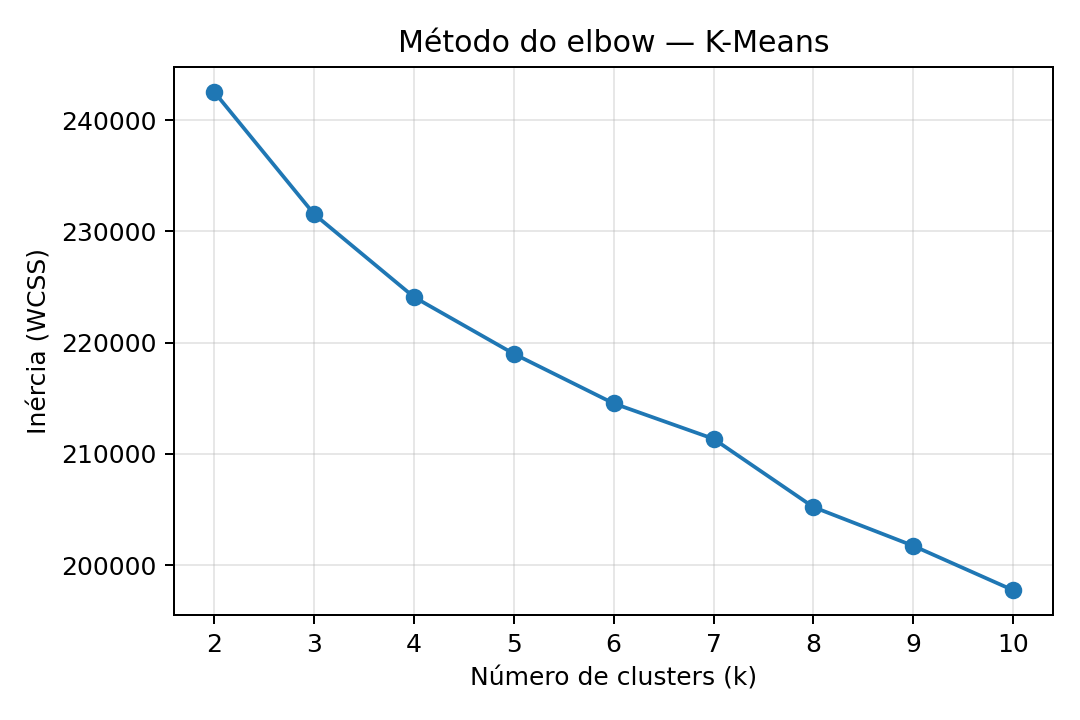
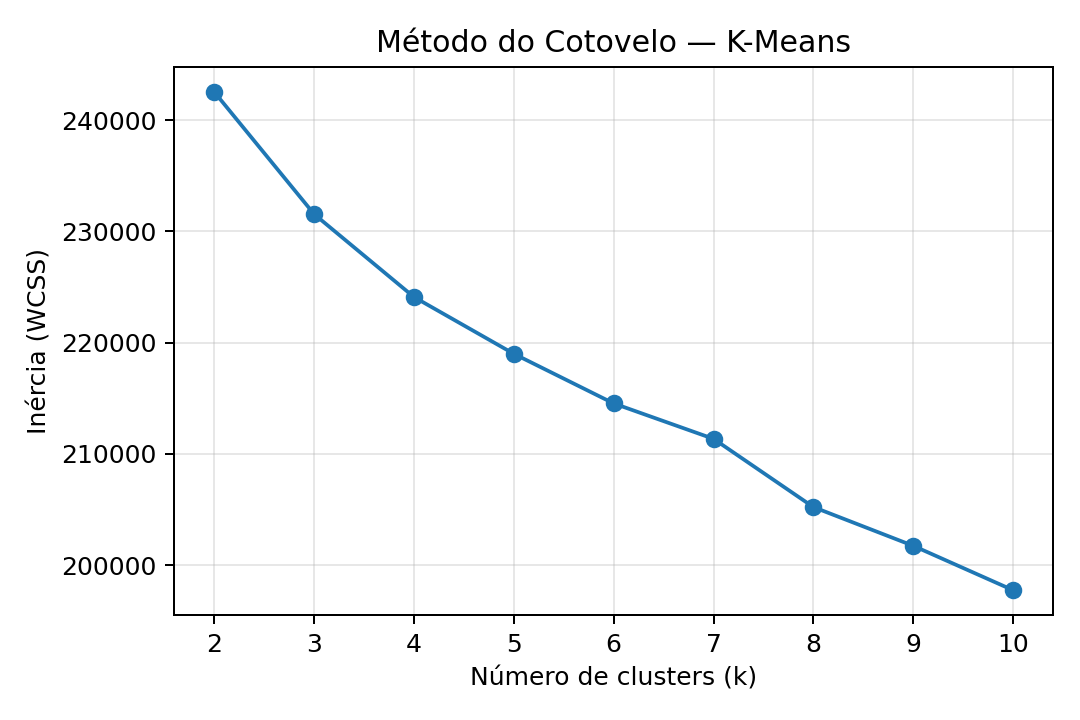
correção na localização das fotos

Changed region(s): [[0.3361, 0.0306, 0.7944, 0.0917]]

diff --git a/docs/K-means/exploracao.py b/docs/K-means/exploracao.py
@@ -1,13 +1,14 @@
+# docs/K-means/exploracao.py (ou kmeans.py)
+import os
 import pandas as pd
 import matplotlib.pyplot as plt
 from sklearn.cluster import KMeans
 from sklearn.metrics import silhouette_score
 from sklearn.preprocessing import StandardScaler
-import os
 
 # Caminhos
 PATH_DATA = "source/spambase.csv"
-SAIDA_GRAFICOS = "docs/GRAFICOS_K-MEANS"
+SAIDA_GRAFICOS = "docs/K-means"
 os.makedirs(SAIDA_GRAFICOS, exist_ok=True)
 
 # Colunas
@@ -29,39 +30,37 @@ colnames = [
 
 # Ler dados
 df = pd.read_csv(PATH_DATA, header=None, names=colnames)
-
 X = df.drop(columns=["is_spam"])
 y = df["is_spam"].astype(int)
 
-# Padronização
+# Padronização (necessária para K-Means)
 scaler = StandardScaler()
 X_escalonado = scaler.fit_transform(X)
 
-# Método do elbow (inércia) e Silhouette (k=2..10)
+#  Gráfico 1: Método do Cotovelo (inércia) 
 Ks = range(2, 11)
 inertias = []
 sil_scores = []
 
 for kk in Ks:
     km = KMeans(n_clusters=kk, random_state=42, n_init=10)
-    labels = km.fit_predict(X_escalonado)
+    rotulos = km.fit_predict(X_escalonado)
     inertias.append(km.inertia_)
-    sil_scores.append(silhouette_score(X_escalonado, labels))
+    sil_scores.append(silhouette_score(X_escalonado, rotulos))
 
-# Método do elbow
-plt.figure(figsize=(6,4))
+plt.figure(figsize=(6, 4))
 plt.plot(list(Ks), inertias, marker="o")
 plt.xticks(list(Ks))
 plt.xlabel("Número de clusters (k)")
 plt.ylabel("Inércia (WCSS)")
-plt.title("Método do elbow — K-Means")
+plt.title("Método do Cotovelo — K-Means")
 plt.grid(alpha=0.3)
 plt.tight_layout()
-plt.savefig(f"{SAIDA_GRAFICOS}/GRAFICOS_K-MEANS_elbow.png", dpi=180)
+plt.savefig(f"{SAIDA_GRAFICOS}/kmeans_elbow.png", dpi=180)
 plt.close()
 
-# Silhouette
-plt.figure(figsize=(6,4))
+#  Gráfico 2: Coeficiente de Silhouette 
+plt.figure(figsize=(6, 4))
 plt.plot(list(Ks), sil_scores, marker="o")
 plt.xticks(list(Ks))
 plt.xlabel("Número de clusters (k)")
@@ -69,48 +68,41 @@ plt.ylabel("Coeficiente de Silhouette (médio)")
 plt.title("Coeficiente de Silhouette — K-Means")
 plt.grid(alpha=0.3)
 plt.tight_layout()
-plt.savefig(f"{SAIDA_GRAFICOS}/GRAFICOS_K-MEANS_silhouette.png", dpi=180)
+plt.savefig(f"{SAIDA_GRAFICOS}/kmeans_silhouette.png", dpi=180)
 plt.close()
 
+#  Gráfico 3: Dispersão 2D com centróides 
+feat_x = "char_freq_!"        # escolha 1
+feat_y = "word_freq_free"     # escolha 2
 
-
-
-# Scatter 2D com centróides (usando 2 features reais)
-
-feat_x = "char_freq_!"          # escolha 1
-feat_y = "word_freq_free"       # escolha 2
-
-# pega só essas duas colunas
 X2 = df[[feat_x, feat_y]].values
 
-# padroniza só essas duas (para o K-Means funcionar bem no 2D)
-escalonador_2d = StandardScaler()
-X2_escal = escalonador_2d.fit_transform(X2)
+# padroniza só as 2 features para rodar o K-Means 2D
+scaler_2d = StandardScaler()
+X2_escal = scaler_2d.fit_transform(X2)
 
-# roda K-Means em 2D
 k2 = 2
 kmeans_2d = KMeans(n_clusters=k2, random_state=42, n_init=10)
 clusters_2d = kmeans_2d.fit_predict(X2_escal)
 
-# padronizada --> traz de volta para a escala original 2D
-centroides_2d = escalonador_2d.inverse_transform(kmeans_2d.cluster_centers_)
+# volta centróides para a escala original das features
+centroides_2d = scaler_2d.inverse_transform(kmeans_2d.cluster_centers_)
 
-# plota
 plt.figure(figsize=(8, 6))
-scatter = plt.scatter(X2[:, 0], X2[:, 1], c=clusters_2d, s=20, alpha=0.8)
-plt.scatter(centroides_2d[:, 0], centroides_2d[:, 1],
-            marker="*", s=250, c="red", edgecolors="black", label="Centróides")
-
+plt.scatter(X2[:, 0], X2[:, 1], c=clusters_2d, s=20, alpha=0.8)
+plt.scatter(
+    centroides_2d[:, 0], centroides_2d[:, 1],
+    marker="*", s=250, c="red", edgecolors="black", label="Centróides"
+)
 plt.xlabel(feat_x)
 plt.ylabel(feat_y)
 plt.title("K-Means — Dispersão 2D com centróides")
 plt.legend()
 plt.tight_layout()
-plt.savefig(f"{SAIDA_GRAFICOS}/GRAFICOS_K-MEANS_scatter.png", dpi=180)
+plt.savefig(f"{SAIDA_GRAFICOS}/kmeans_scatter.png", dpi=180)
 plt.close()
 
-
-print("Gráficos salvos em docs/GRAFICOS_K-MEANS/:")
-print(" - GRAFICOS_K-MEANS_elbow.png")
-print(" - GRAFICOS_K-MEANS_silhouette.png")
-print(" - GRAFICOS_K-MEANS_scatter.png")
+print("Gráficos salvos em docs/K-means/:")
+print(" - kmeans_elbow.png")
+print(" - kmeans_silhouette.png")
+print(" - kmeans_scatter.png")
